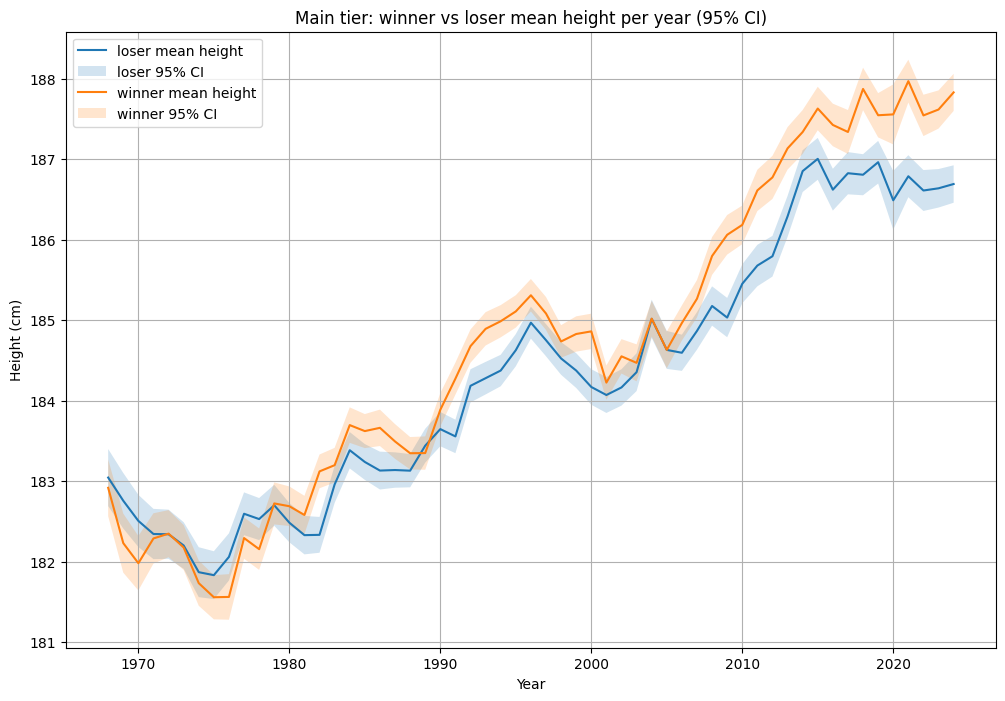
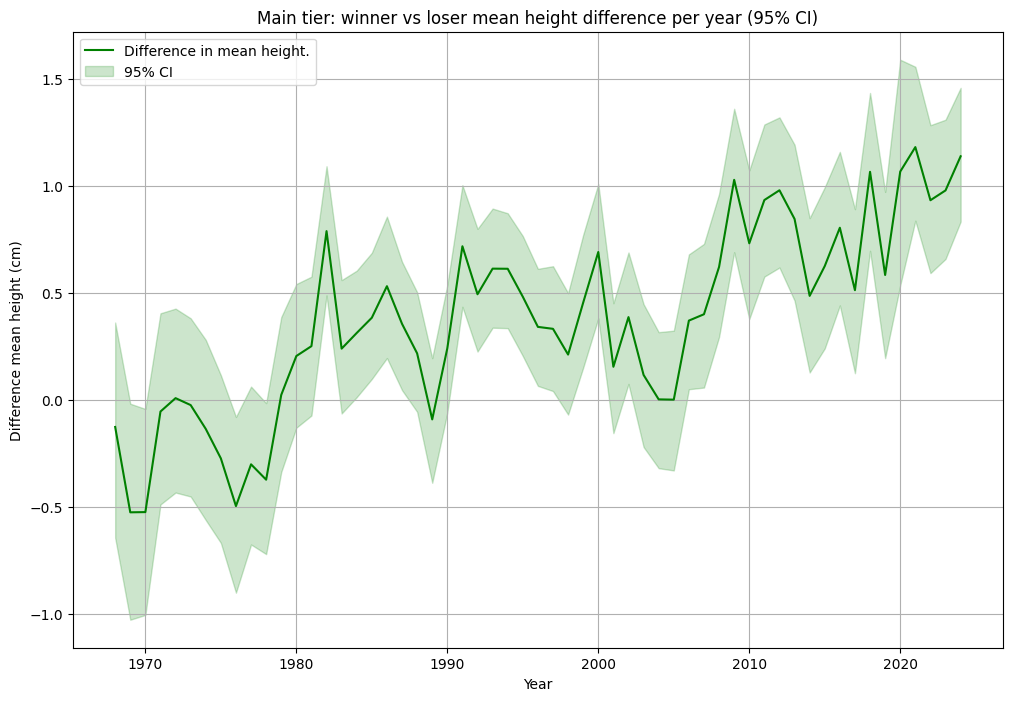
height_analyse_winner_loser.py Now uses bootstrapping for the CI since player length between matches is dependent.

diff --git a/code/height_analysis/height_analyse_winner_loser.py b/code/height_analysis/height_analyse_winner_loser.py
@@ -1,6 +1,5 @@
 import numpy as np
 import pandas as pd
-from scipy import stats
 from pathlib import Path
 import matplotlib.pyplot as plt
 
@@ -9,10 +8,8 @@ PNG_DIR = "png"
 
 
 def init_out_dir():
-    p = Path(CSV_DIR)
-    p.mkdir(parents=True, exist_ok=True)
-    p = Path(PNG_DIR)
-    p.mkdir(parents=True, exist_ok=True)
+    Path(CSV_DIR).mkdir(parents=True, exist_ok=True)
+    Path(PNG_DIR).mkdir(parents=True, exist_ok=True)
 
 
 def main():
@@ -26,73 +23,73 @@ def main():
     # keep only main tier
     main = df[df["tier"] == "main"].copy()
 
-    # Compute mean and CI for winners. Duplicates are fine now, lengths that win
-    # but then lose are canceled out that way.
-    groups = main.groupby(["year"])["winner_ht"]
-    # Creates an out dataframe with number of heights per group, their mean and
-    # std. reset_index Turns it into normal columns.
-    winners = groups.agg(n="count", mean="mean", std="std").reset_index()
+    # It shouldn't matter but it is nicer to have perfectly consistent plots.
+    rng = np.random.default_rng(0)
+    rows = []
+    # Amount of bootstrap samples. We have to use bootstrapping since heights
+    # of the same players across different matches are not independent of
+    # course.
+    N = 2000
+    # Since we use 95% CI.
+    alpha = 0.05
 
-    # The CI is computed using the Student's t-distribution:
-    # https://en.wikipedia.org/wiki/Confidence_interval
-    # Should be fine since height is normally distributed and n is large enough.
-    # Standard error.
-    winners["se"] = winners["std"] / np.sqrt(winners["n"])
-    # Two-sided 95% t-critical value with n-1 degrees of freedom
-    winners["tcrit"] = stats.t.ppf(0.975, df=winners["n"] - 1)
-    winners["ci_lower"] = winners["mean"] - winners["tcrit"] * winners["se"]
-    winners["ci_upper"] = winners["mean"] + winners["tcrit"] * winners["se"]
+    for year, group in main.groupby("year"):
+        winner_ht = group["winner_ht"].to_numpy()
+        loser_ht = group["loser_ht"].to_numpy()
+        # Amount of matches
+        n = len(group)
 
-    # Those columns were for computing, they are not useful for our conclusion.
-    winners = winners.drop(columns=["std", "se", "tcrit"]).sort_values(["year"])
+        # This is the actual difference in mean for the current year. The cast
+        # is so it is not some numpy datatype.
+        diff_mean = float(winner_ht.mean() - loser_ht.mean())
 
-    # Compute mean and CI for winners.
-    groups = main.groupby(["year"])["loser_ht"]
-    # Creates an out dataframe with number of heights per group, their mean and
-    # std. reset_index Turns it into normal columns.
-    losers = groups.agg(n="count", mean="mean", std="std").reset_index()
+        boots = np.empty(N)
+        idx = np.arange(n)
+        for b in range(N):
+            # Sample with replacement.
+            s = rng.choice(idx, size=n, replace=True)
+            # Compute the bootstrapped difference in mean.
+            boots[b] = winner_ht[s].mean() - loser_ht[s].mean()
 
-    # The CI is computed using the Student's t-distribution:
-    # https://en.wikipedia.org/wiki/Confidence_interval
-    # Should be fine since height is normally distributed and n is large enough.
-    # Standard error.
-    losers["se"] = losers["std"] / np.sqrt(losers["n"])
-    # Two-sided 95% t-critical value with n-1 degrees of freedom
-    losers["tcrit"] = stats.t.ppf(0.975, df=losers["n"] - 1)
-    losers["ci_lower"] = losers["mean"] - losers["tcrit"] * losers["se"]
-    losers["ci_upper"] = losers["mean"] + losers["tcrit"] * losers["se"]
+        # The lower 2.5%
+        ci_lower = float(np.quantile(boots, alpha / 2))
+        # The upper 97.5%
+        ci_upper = float(np.quantile(boots, 1 - alpha / 2))
 
-    # Those columns were for computing, they are not useful for our conclusion.
-    losers = losers.drop(columns=["std", "se", "tcrit"]).sort_values(["year"])
+        rows.append(
+            {
+                "year": int(year),
+                "n": n,
+                "diff_mean": diff_mean,
+                "ci_lower": ci_lower,
+                "ci_upper": ci_upper,
+            }
+        )
 
-    winners["cat"] = "winner"
-    losers["cat"] = "loser"
+    out = pd.DataFrame(rows).sort_values("year").reset_index(drop=True)
 
-    out = pd.concat([winners, losers], ignore_index=True)
-
-    out.to_csv(f"{CSV_DIR}/winner_loser_ht_mean.csv")
+    out.to_csv(f"{CSV_DIR}/winner_loser_ht_mean.csv", index=False)
     fig, ax = plt.subplots(figsize=(12, 8))
 
-    for category, group in out.groupby("cat"):
-        group = group.sort_values("year")
-        x = group["year"]
-        y = group["mean"]
+    x = out["year"]
+    y = out["diff_mean"]
 
-        ax.plot(x, y, label=f"{category} mean height")
+    ax.plot(x, y, color="green", label=f"Difference in mean height.")
 
-        ax.fill_between(
-            x,
-            group["ci_lower"],
-            group["ci_upper"],
-            alpha=0.2,
-            label=f"{category} 95% CI",
-        )
+    ax.fill_between(
+        x,
+        out["ci_lower"],
+        out["ci_upper"],
+        color="green",
+        alpha=0.2,
+        label=f"95% CI",
+    )
 
     ax.legend()
     ax.grid(True)
-    ax.set_title(f"Main tier: winner vs loser mean height per year (95% CI)")
+    ax.set_title(f"Main tier: winner vs loser mean height difference per year (95% CI)")
     ax.set_xlabel("Year")
-    ax.set_ylabel("Height (cm)")
+    ax.set_ylabel("Difference mean height (cm)")
     fig.savefig(f"{PNG_DIR}/winner_loser_ht_mean.png", bbox_inches="tight")
     return 0
 
